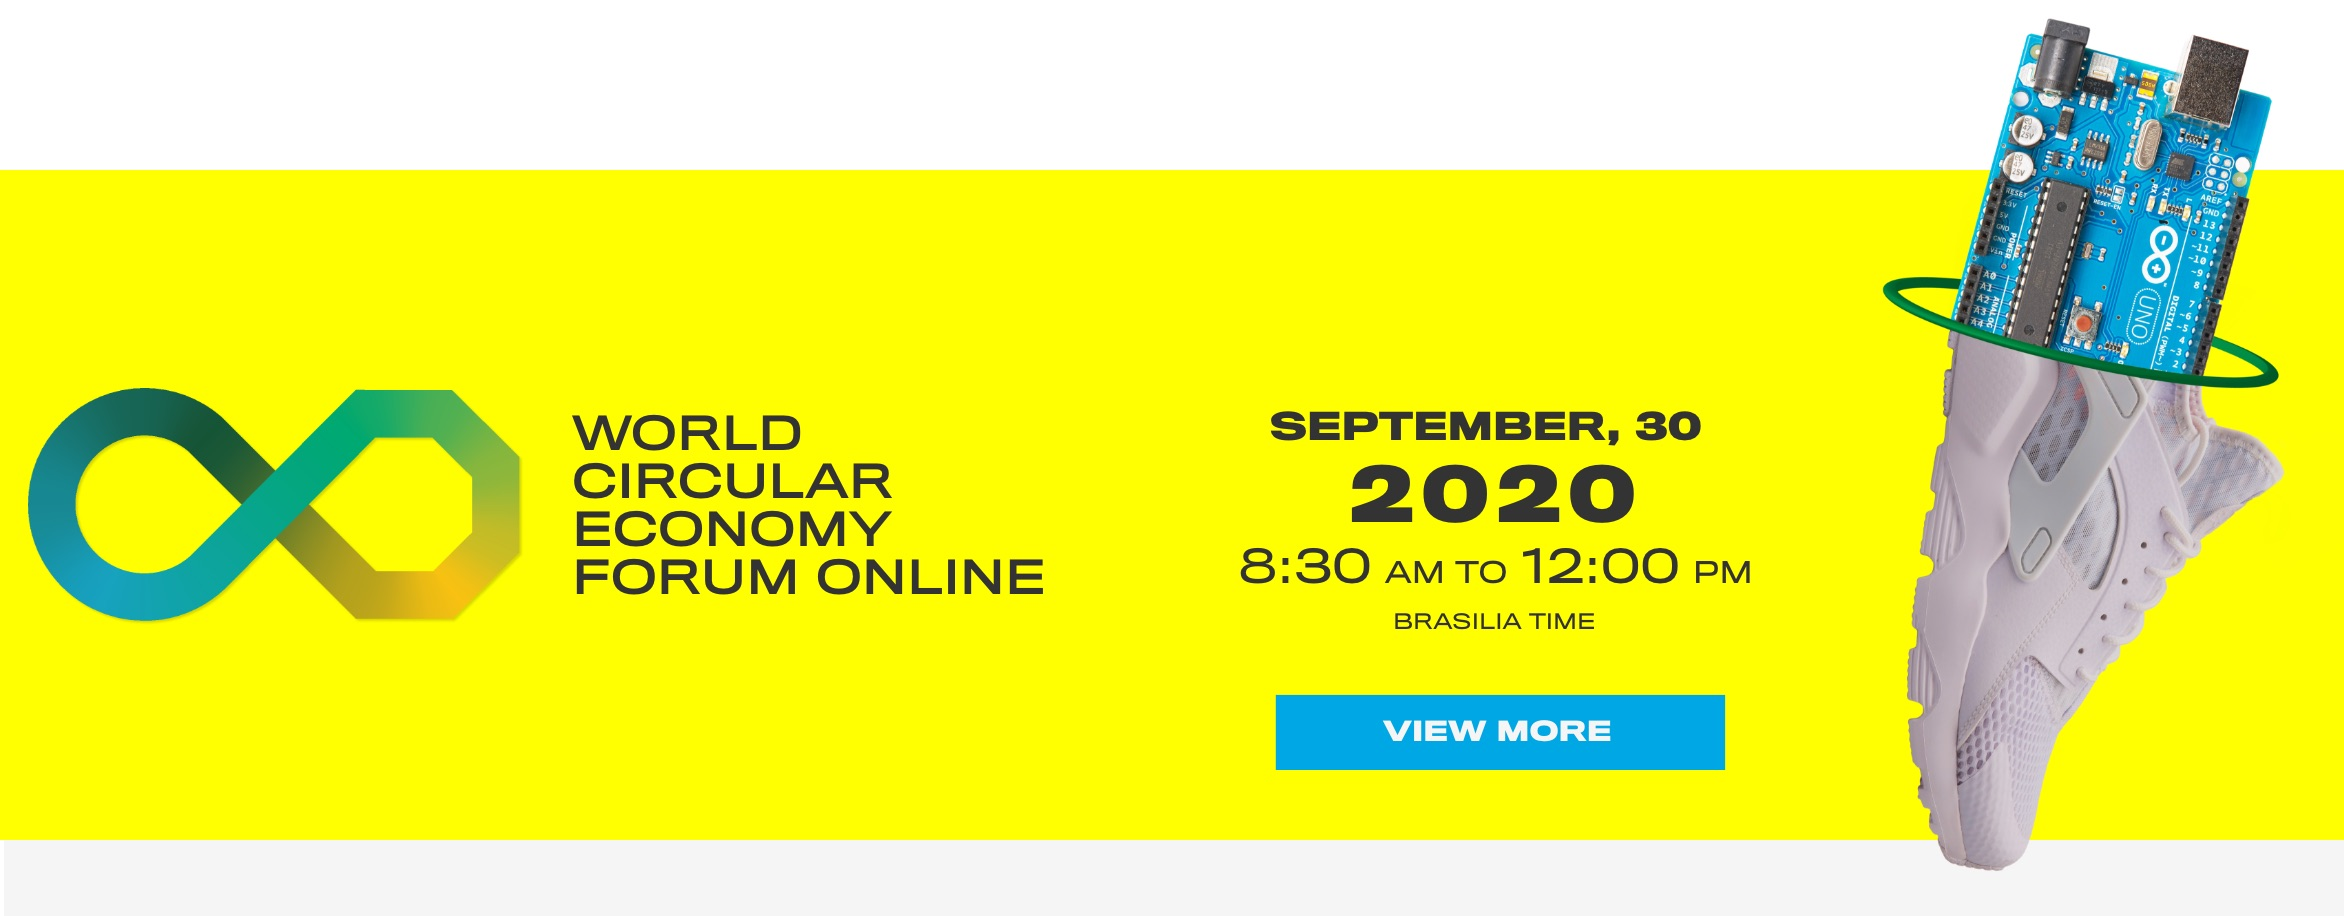
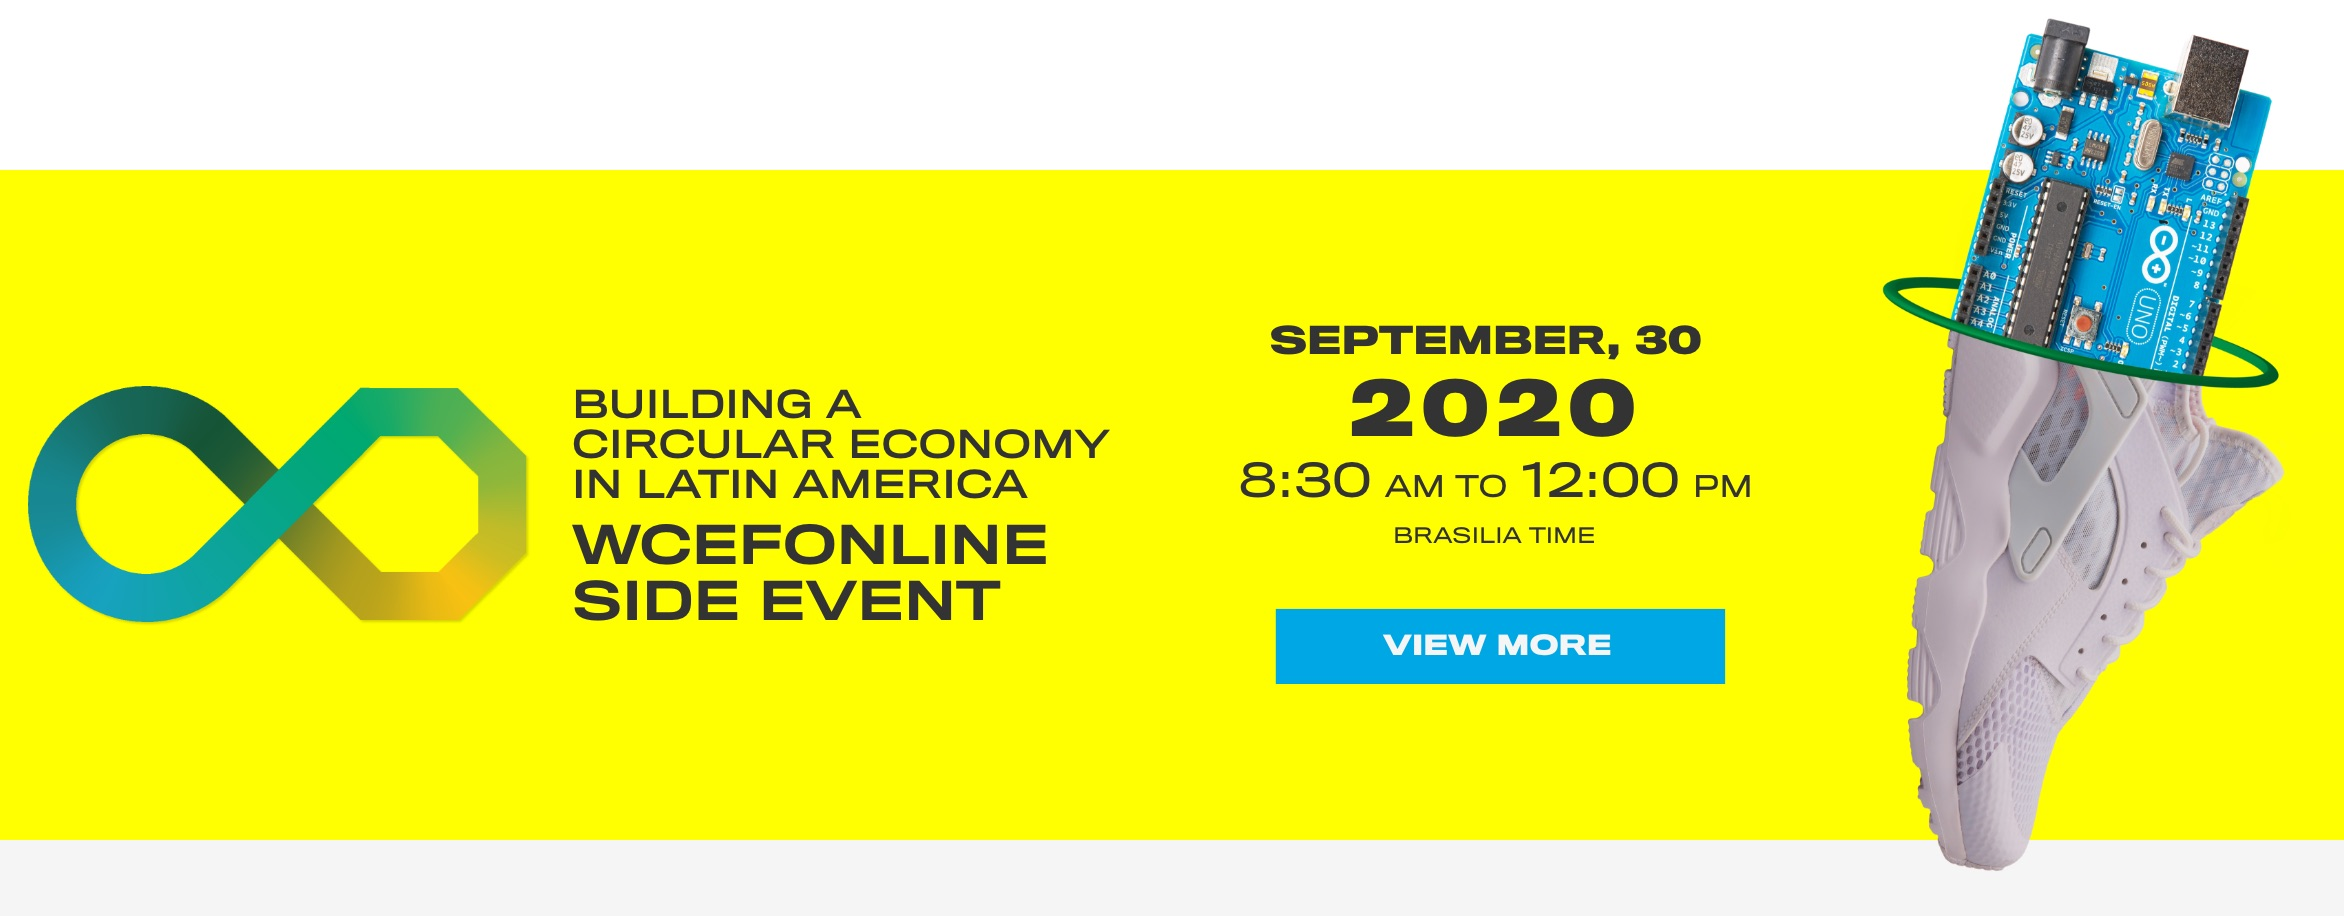
Add files via upload

diff --git a/en/forum-sul-americano-2020.html b/en/forum-sul-americano-2020.html
@@ -100,7 +100,7 @@
             <a class="nav-link js-scroll-trigger" href="index.html">SITE CIRCULAR ECONOMY</a>
           </li>
           <li class="nav-item px-2">
-            <a class="nav-link js-scroll-trigger" href="#sobre-forum">ABOUT WCEFOnline</a>
+            <a class="nav-link js-scroll-trigger" href="#sobre-forum">ABOUT</a>
           </li>
           <li class="nav-item px-2">
             <a class="nav-link js-scroll-trigger" href="#programacao">PROGRAMME</a>
@@ -148,8 +148,8 @@
 
         <div class="col-sm-12 col-xl-10 offset-xl-1">
           <div class="section-header">
-            <h2>WCEFonline Side Event: Building a  
-              <br><strong>Circular Economy in Latin America</strong>
+            <h2>BUILDING A CIRCULAR ECONOMY IN LATIN AMERICA  
+              <br><strong>WCEFONLINE SIDE EVENT</strong>
             </h2>
           </div>
 
@@ -242,7 +242,7 @@
 
                 <ul>
                   <li><strong>Marcelo Marcos Morales </strong> - Secretary of Policy for the Formation of Strategic Actions at Ministry of Science, Technology and Innovation of Brazil</li>
-                  <li><strong>Guilhermo Gonzalez</strong> - Chile Ministry of Environment</li>
+                  <li><strong>Luis Martinez Cerna</strong> - Universidad Central de Chile</li>
                   <li><strong>Alex Saer </strong> - Director of Sustainable Development of the Ministry of Environment of Colombia</li>
                   <li><strong>Júlio Sosa</strong> - Executive Coordinator of the Chamber of Industries of Uruguay</li>
                   <li><strong>Elizabeth Peralta </strong> - Ex-Head of the Engineering and Environmental Management Departament of Municipal Public Company of water and sewage and rainwater services of Mar del Plata – Argentina</li>

diff --git a/en/index.html b/en/index.html
@@ -172,7 +172,7 @@
           </li>
           
           <li class="nav-item  px-2">
-            <a class="nav-link js-scroll-trigger" href="forum-sul-americano-2020.html">WCEFOnline</a>
+            <a class="nav-link js-scroll-trigger" href="forum-sul-americano-2020.html">EVENTS</a>
           </li>
           <li class="nav-item dropdown ml-3">
             <a class="nav-link dropdown-toggle" href="#" id="navbarDropdown" role="button" data-toggle="dropdown" aria-haspopup="true" aria-expanded="false">
